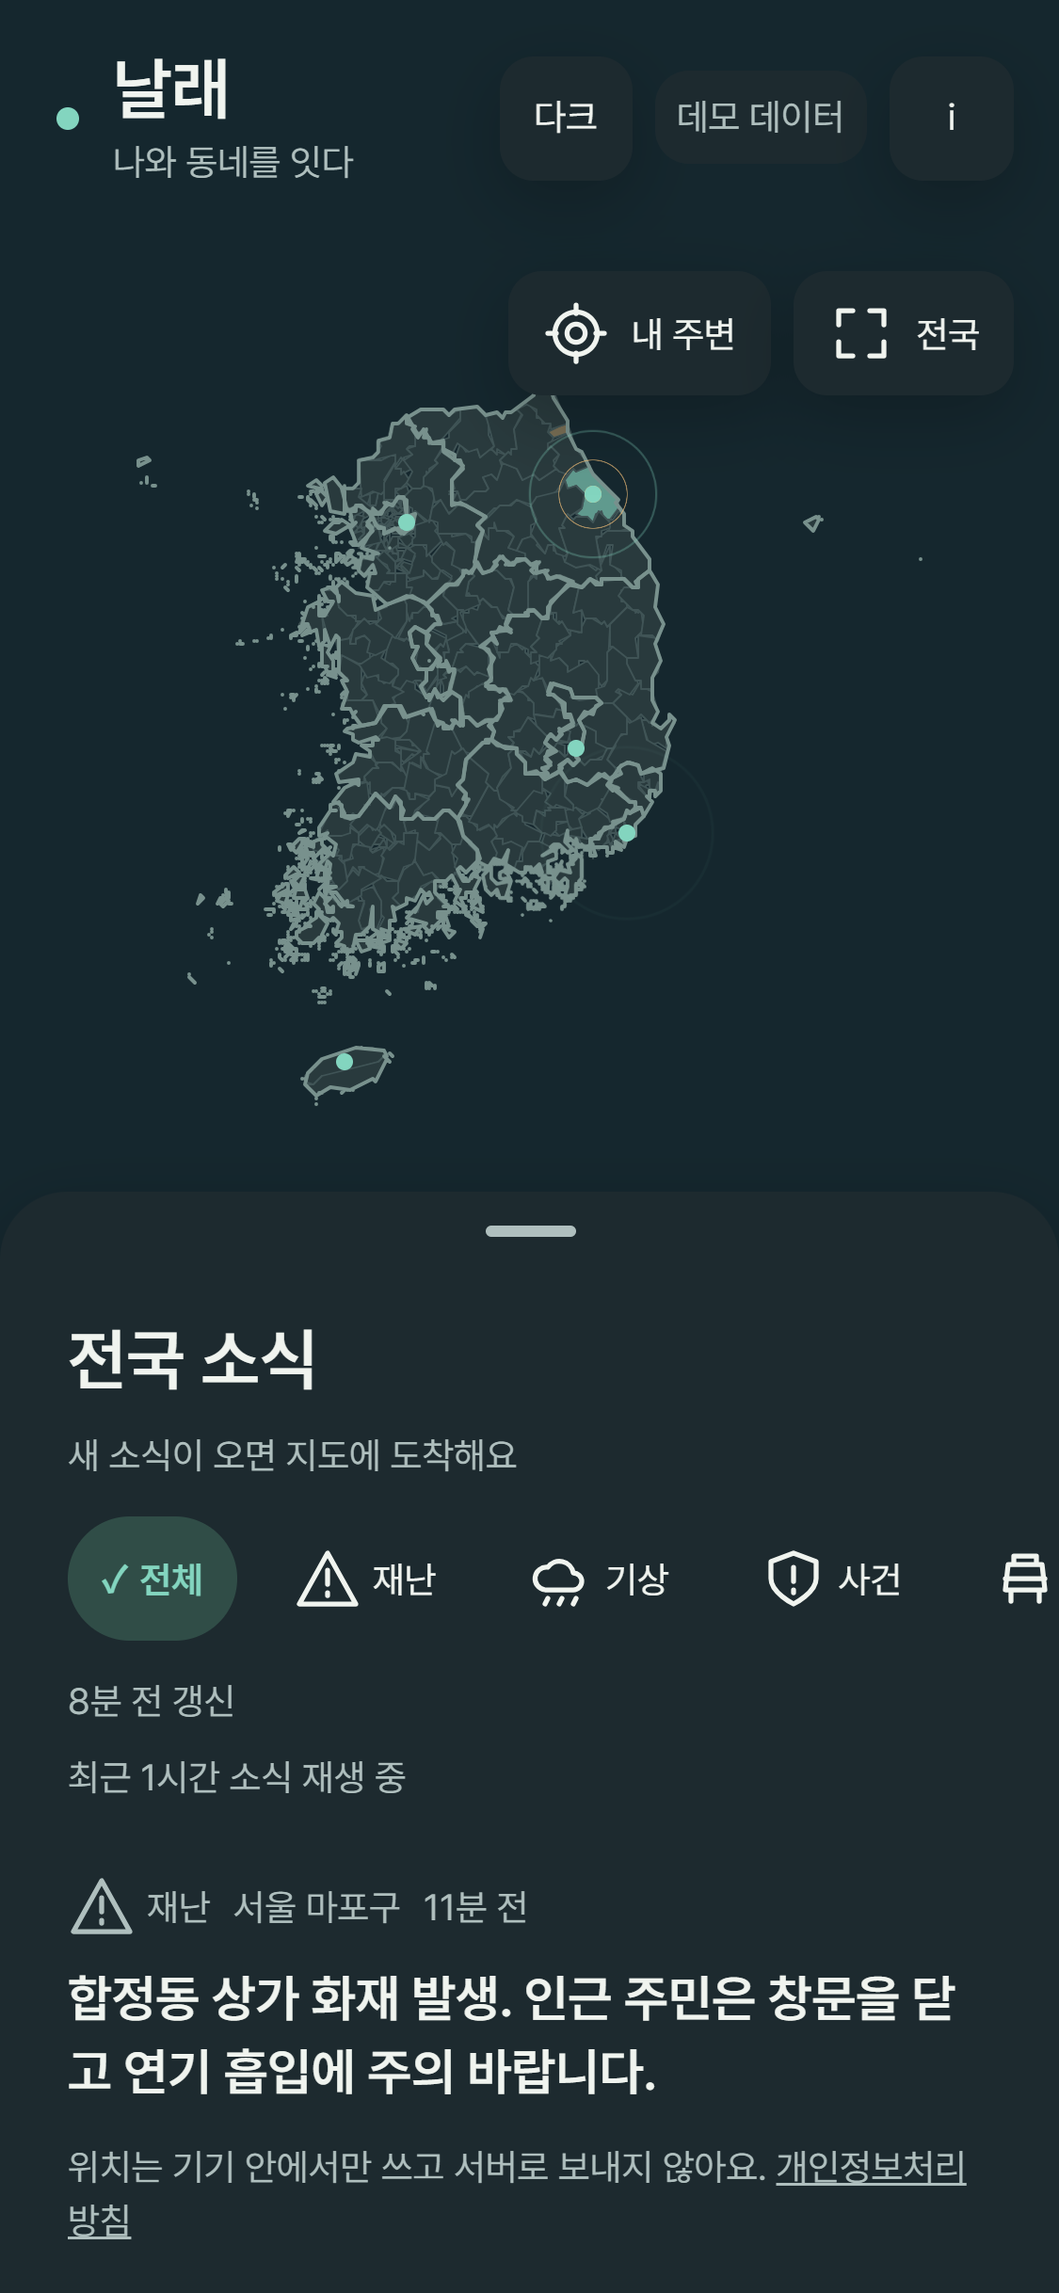
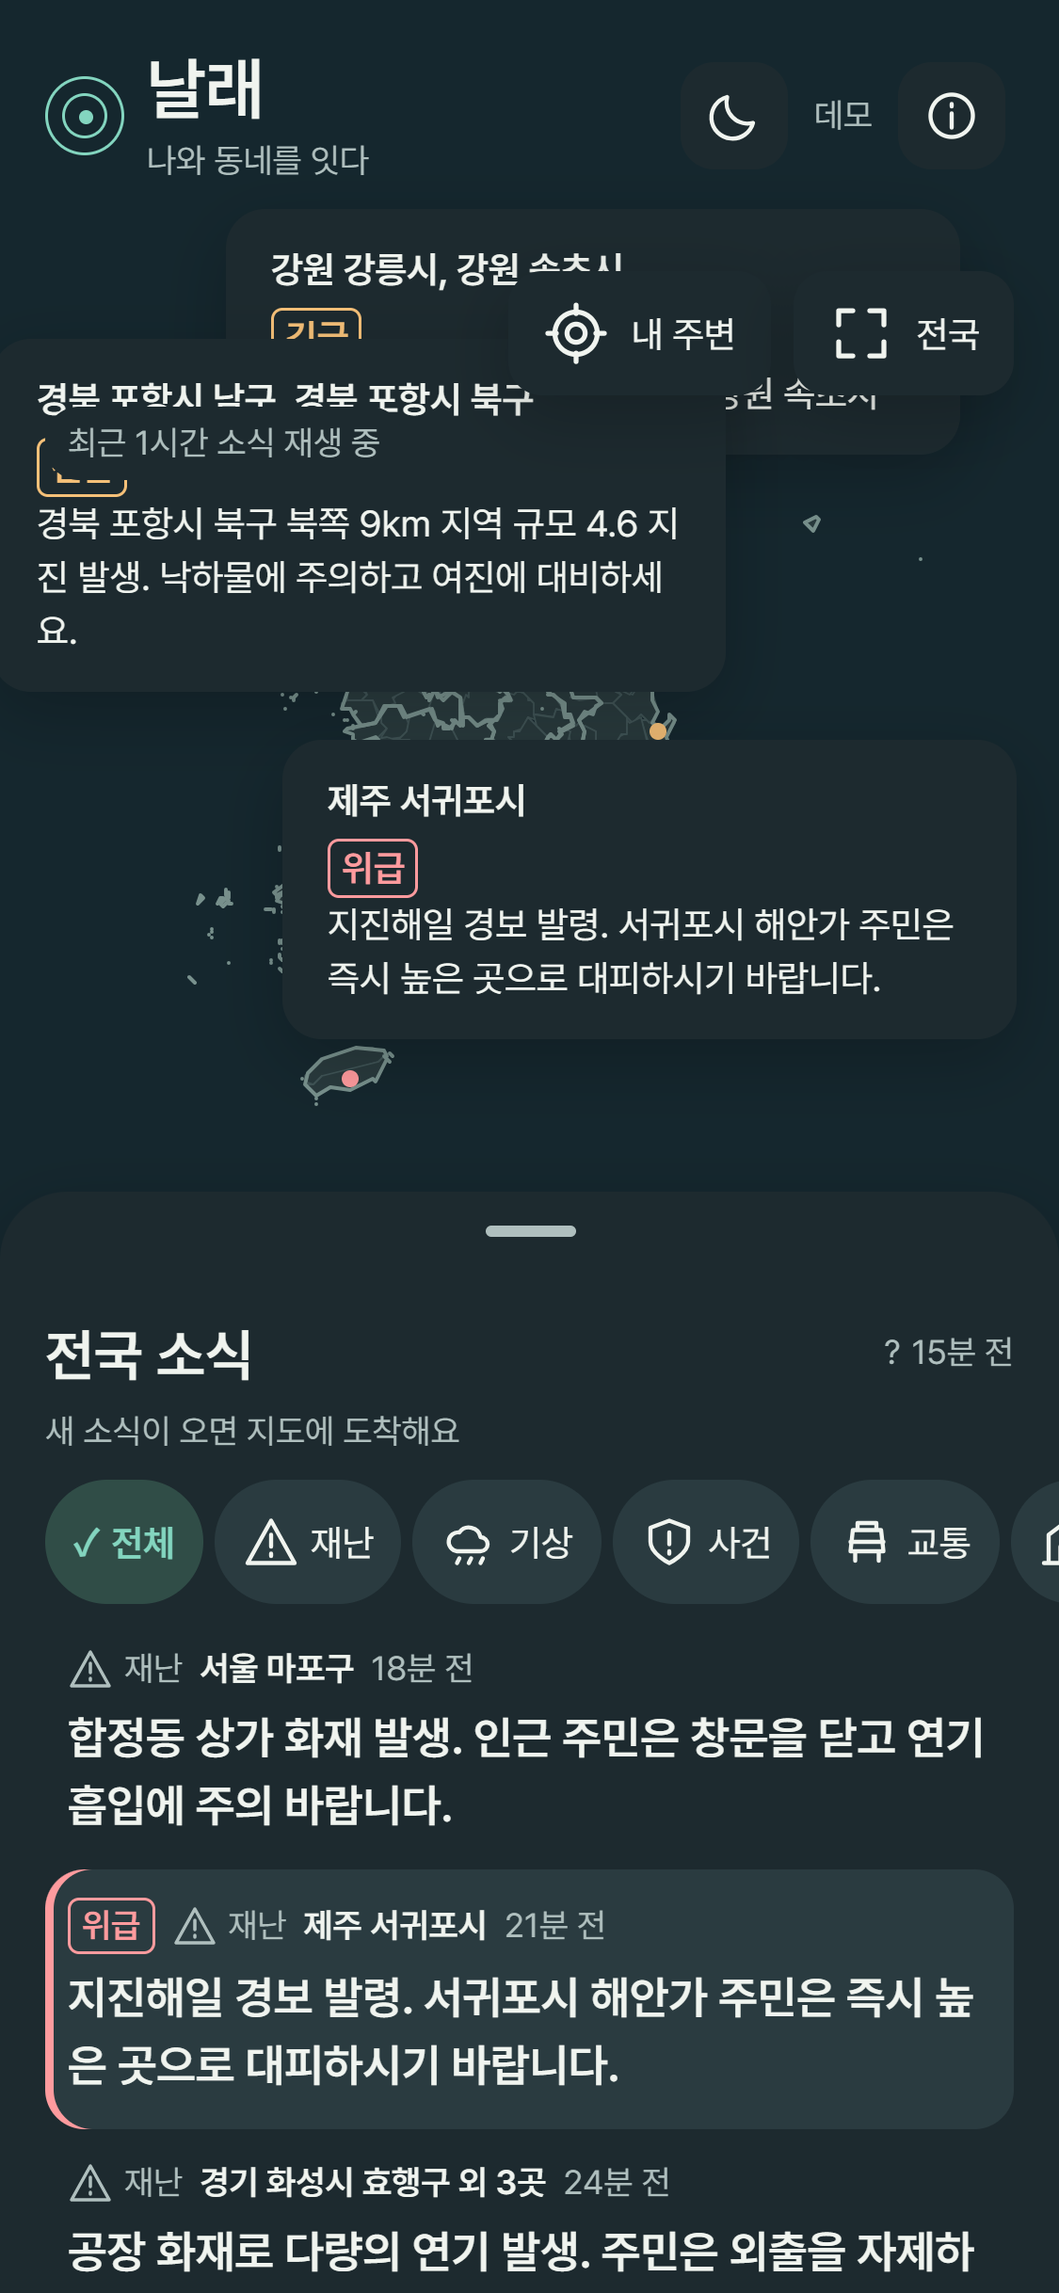
디자인 1단계 다듬기 2: 말풍선 1개·한 줄·안전 영역, 상태 점, 부제 문구, 재생 토스트 레이어

diff --git a/web/app.js b/web/app.js
@@ -197,7 +197,51 @@
     m.flashTimer = setTimeout(() => { m.flashing = false; restyle(m); }, 2400);
   }
 
-  let bubbleMarker = null;
+  const bubbleEl = document.createElement('div');
+  bubbleEl.className = 'map-bubble';
+  bubbleEl.hidden = true;
+  document.body.append(bubbleEl);
+  let bubbleAt = null, bubbleUntil = 0, bubbleTimer;
+  const replayEl = document.getElementById('replay-status');
+  function placeMapOverlays() {
+    const sheet = panel.getBoundingClientRect();
+    const controls = document.querySelector('.controls').getBoundingClientRect();
+    const header = document.querySelector('.topbar').getBoundingClientRect();
+    const desktop = matchMedia('(min-width:760px)').matches;
+    const left = desktop ? sheet.right + 16 : 12;
+    const right = desktop ? controls.left - 12 : innerWidth - 12;
+    const top = Math.max(header.bottom, controls.bottom) + 8;
+    const bottom = desktop ? innerHeight - 28 : sheet.top - 12;
+    const width = Math.max(0, right - left);
+    replayEl.style.left = left + 'px';
+    replayEl.style.top = top + 'px';
+    replayEl.style.maxWidth = width + 'px';
+    const minY = top + (replayEl.hidden ? 0 : replayEl.getBoundingClientRect().height + 8);
+    bubbleEl.style.maxWidth = Math.min(innerWidth * .72, width) + 'px';
+    if (!bubbleAt || bubbleEl.hidden) return;
+    const box = bubbleEl.getBoundingClientRect();
+    bubbleEl.style.visibility = width >= 80 && bottom - minY >= box.height ? 'visible' : 'hidden';
+    const point = map.latLngToContainerPoint(bubbleAt);
+    const x = point.x + box.width > right ? point.x - box.width : point.x;
+    const y = point.y - box.height - 14 < minY ? point.y + 14 : point.y - box.height - 14;
+    bubbleEl.style.left = Math.max(left, Math.min(x, right - box.width)) + 'px';
+    bubbleEl.style.top = Math.max(minY, Math.min(y, bottom - box.height)) + 'px';
+  }
+  function showMapBubble(item, at) {
+    if (Date.now() < bubbleUntil) return;
+    clearTimeout(bubbleTimer);
+    bubbleAt = at;
+    bubbleUntil = item.urgency === 'critical' ? Date.now() + 4000 : 0;
+    bubbleEl.innerHTML = urgencyBadge(item) + '<span class="bubble-title">' + escapeHtml(placeLabel(item)) + ' · ' + escapeHtml(item.title) + '</span>';
+    bubbleEl.hidden = false;
+    placeMapOverlays();
+    bubbleTimer = setTimeout(() => { bubbleEl.hidden = true; bubbleAt = null; bubbleUntil = 0; }, item.urgency === 'critical' ? 4000 : 2800);
+  }
+  const overlayObserver = new ResizeObserver(placeMapOverlays);
+  [panel, document.querySelector('.topbar'), document.querySelector('.controls')].forEach(el => overlayObserver.observe(el));
+  new MutationObserver(placeMapOverlays).observe(replayEl, { attributes:true, attributeFilter:['hidden'] });
+  map.on('move zoom resize', placeMapOverlays);
+  window.addEventListener('resize', placeMapOverlays);
   // 정책브리핑처럼 지명이 '언급'만 된 자료는 목록에만 두고 지도에 찍지 않는다
   const onMap = (item) => item.onMap !== false && item.src !== 'brief';
 
@@ -211,24 +255,15 @@
     // 펄스는 한 곳에: 시·군·구 하나면 그 중심, 여러 곳이면 첫 지역, 시·도 전체면 시·도 중심
     const at = item.sgg?.length ? muniByCode.get(item.sgg[0])?.center : sidos.get(item.sido?.[0])?.center;
     if (!at) return;
-    const where = placeLabel(item);
-    // 화면 가장자리 근처면 말풍선을 안쪽으로 붙인다
-    const x = map.latLngToContainerPoint(at).x, w = map.getSize().x;
-    const edge = x > w - 150 ? ' to-left' : x < 150 ? ' to-right' : '';
     const html = `<div class="pulse" style="${signalStyle(item)}">
       ${reducedMotion.matches ? '' : '<span class="ring"></span>'}<span class="dot"></span>
-      ${withBubble ? `<div class="bubble${edge}${['critical','urgent'].includes(item.urgency) ? ' priority' : ''}"><b>${escapeHtml(where)}</b>${urgencyBadge(item)}<span class="bubble-title">${escapeHtml(item.title)}</span></div>` : ''}
     </div>`;
     const marker = L.marker(at, {
       pane: 'pulses', interactive: false, keyboard: false,
       icon: L.divIcon({ className: '', html, iconSize: [0, 0] }),
     }).addTo(map);
-    if (withBubble) {
-      if (bubbleMarker && !bubbleMarker.priority) map.removeLayer(bubbleMarker);
-      marker.priority = ['critical','urgent'].includes(item.urgency);
-      bubbleMarker = marker;
-    }
-    setTimeout(() => { map.removeLayer(marker); if (bubbleMarker === marker) bubbleMarker = null; }, 5600);
+    if (withBubble) showMapBubble(item, at);
+    setTimeout(() => map.removeLayer(marker), 5600);
   }
 
   function itemMunis(item) {
@@ -320,6 +355,7 @@
     const failed = Object.entries(sources).filter(([,v]) => v.ok === false);
     const stale = updatedAt && Date.now() - updatedAt > 60 * 60 * 1000;
     status.classList.toggle('failed', loadFailed || !!failed.length);
+    status.classList.toggle('stale', !!stale);
     status.textContent = (loadFailed ? '소식을 새로 불러오지 못했어요 · ' : failed.length ? '일부 출처 수집 실패 · ' : stale ? '갱신이 지연되고 있어요 · ' : '') + (updatedAt ? ago(updatedAt) : '갱신 시각 미제공');
   }
   function sourceStatus() {
@@ -336,7 +372,7 @@
   function renderFeed(newIds, preserve = false) {
     if (!preserve) pending.clear();
     titleEl.textContent = selection ? label(selection.center) + ' 주변' : '전국 소식';
-    subEl.textContent = selection ? (selection.fromLocation ? '내 위치 기준 · ' : '') + selection.center.name + '와 맞닿은 ' + (selection.codes.size - 1) + '곳 포함' : '새 소식이 오면 지도에 도착해요';
+    subEl.textContent = selection ? (selection.fromLocation ? '내 위치 기준 · ' : '') + selection.center.name + '와 맞닿은 ' + (selection.codes.size - 1) + '곳 포함' : '최근 72시간 · 새 소식은 지도에서 먼저 반짝여요';
     const oldScroll = feedEl.scrollTop;
     const focused = document.activeElement;
     const focusId = focused?.closest('li[data-id]')?.dataset.id;

diff --git a/web/style.css b/web/style.css
@@ -122,12 +122,6 @@ path.region.flash { transition:none; }
 .pulse .ring { position:absolute; left:-32px; top:-32px; width:64px; height:64px; border:1px solid var(--signal); border-radius:50%; opacity:0; animation:ring .8s ease-out 2; animation-delay:.1s; }
 .pulse .dot { position:absolute; left:-3px; top:-3px; width:6px; height:6px; background:var(--signal); border-radius:50%; }
 @keyframes ring { from { transform:scale(.2); opacity:.8; } to { transform:scale(1); opacity:0; } }
-.bubble { --bx:-50%; position:absolute; left:0; bottom:14px; transform:translateX(var(--bx)); width:260px; max-width:70vw; padding:12px 16px; border-radius:14px; font-size:13px; line-height:19px; background:var(--surface); color:var(--text); box-shadow:var(--shadow); opacity:0; animation:bubble 3.8s 1.7s forwards; }
-.bubble b { display:block; margin-bottom:4px; }
-.bubble.to-left { --bx:calc(-100% + 24px); }
-.bubble.to-right { --bx:-24px; }
-.bubble-title { display:-webkit-box; -webkit-line-clamp:3; -webkit-box-orient:vertical; overflow:hidden; }
-@keyframes bubble { 0%,100% { opacity:0; } 5%,90% { opacity:1; } }
 .me { --signal:var(--brand); }
 .me .ring { display:none; }
 .me .dot { width:10px; height:10px; left:-5px; top:-5px; border:2px solid var(--surface); }
@@ -135,7 +129,7 @@ path.region.flash { transition:none; }
 .toast.show { opacity:1; }
 @media(min-width:760px) { .panel { top:96px; bottom:16px; left:16px; width:340px; border-radius:24px; } }
 @media(max-width:759px) { .panel { left:0; right:0; bottom:0; height:48vh; border-radius:24px 24px 0 0; padding-bottom:env(safe-area-inset-bottom); } .panel.collapsed { height:160px; } .panel-handle { display:block; position:relative; width:100%; height:44px; flex-shrink:0; border:0; background:none; } .panel-handle::after { content:''; position:absolute; width:32px; height:4px; top:12px; left:calc(50% - 16px); background:var(--text-muted); border-radius:4px; } .panel-head { padding-top:0; } .controls { top:96px; flex-direction:row; } .toast { top:148px; } }
-@media(prefers-reduced-motion:reduce) { *,*::before,*::after { transition:none!important; } .pulse .ring { display:none; } .bubble { animation:none; opacity:1; } }
+@media(prefers-reduced-motion:reduce) { *,*::before,*::after { transition:none!important; } .pulse .ring { display:none; } }
 
 .feed li.critical { box-shadow:inset 3px 0 var(--signal-critical); background:var(--surface-muted); }
 
@@ -154,7 +148,9 @@ path.region.flash { transition:none; }
 .panel-head h2 { font-size:20px; line-height:28px; }
 .panel-head p { margin:4px 0 0; font-size:12px; line-height:18px; }
 .collection-status { position:absolute; right:16px; top:20px; max-width:96px; padding:0; font-size:12px; line-height:18px; text-align:right; }
-.collection-status::before { content:'?'; margin-right:4px; }
+.collection-status::before { content:''; display:inline-block; width:6px; height:6px; border-radius:50%; margin-right:4px; vertical-align:middle; background:var(--brand); }
+.collection-status.stale::before { background:var(--signal-urgent); }
+.collection-status.failed::before { background:var(--signal-critical); }
 .chips { padding:0 16px 4px; gap:4px; }
 .chips button { background:var(--surface-muted); padding:6px 10px; }
 .chips .category-icon { width:20px; height:20px; }
@@ -166,8 +162,8 @@ path.region.flash { transition:none; }
 .meta time { font-weight:400; }
 .meta .category-icon { width:16px; height:16px; }
 .meta .urgency { font-size:12px; line-height:18px; }
-.bubble.priority { animation-delay:0s; animation-duration:5.5s; z-index:2; }
-@media(prefers-reduced-motion:reduce) { .bubble.priority { animation:none; opacity:1; } }
-.replay-toast { position:fixed; z-index:900; top:144px; left:16px; margin:0; padding:4px 8px; border-radius:12px; background:var(--surface); color:var(--text-muted); font-size:12px; line-height:18px; pointer-events:none; }
-@media(min-width:760px) { .replay-toast { left:372px; top:96px; } }
+.map-bubble { position:fixed; z-index:850; box-sizing:border-box; display:flex; align-items:center; gap:6px; width:max-content; padding:8px 12px; border-radius:12px; background:var(--surface); color:var(--text); box-shadow:var(--shadow); font-size:13px; line-height:20px; pointer-events:none; white-space:nowrap; }
+.map-bubble .urgency { flex:none; }
+.map-bubble .bubble-title { display:block; min-width:0; overflow:hidden; text-overflow:ellipsis; white-space:nowrap; }
+.replay-toast { position:fixed; z-index:900; box-sizing:border-box; margin:0; padding:4px 8px; border-radius:12px; background:var(--surface); color:var(--text-muted); font-size:12px; line-height:18px; pointer-events:none; }
 @media(max-width:759px) { .panel-head { padding-top:0; } .collection-status { top:48px; } .panel-head p { max-width:240px; } }

diff --git a/web/sw.js b/web/sw.js
@@ -1,5 +1,5 @@
 // 앱 껍데기는 캐시해서 바로 열리게, 소식(news.json)은 항상 네트워크 우선.
-const VERSION = 'nallae-v4';
+const VERSION = 'nallae-v5';
 const SHELL = [
   './', 'index.html', 'style.css', 'fonts/pretendard/pretendard-subset.css', 'app.js', 'manifest.webmanifest',
   'vendor/leaflet.min.css', 'vendor/leaflet.min.js', 'vendor/topojson-client.min.js',

diff --git a/docs/design/STAGE_1_IMPLEMENTATION.md b/docs/design/STAGE_1_IMPLEMENTATION.md
@@ -19,7 +19,7 @@ WCAG 상대휘도 공식으로 본문·보조 글자·brand·위급·긴급·미
 | B | 다크 | 5.75:1 |
 
 토큰 hex 보정 없음. 꿀색은 장식 표식에만 사용한다. 행정 경계는 문자나 조작부가 아닌 지도 구획선이다.
-앱 JS+CSS는 약 40KB(데이터·vendor·폰트 제외)로 100KB 이하. 서비스워커는 `nallae-v4`이며 폰트 CSS를 셸에 포함했다.
+앱 JS+CSS는 41,912바이트(데이터·vendor·폰트 제외)로 100KB 이하. 서비스워커는 `nallae-v5`이며 폰트 CSS를 셸에 포함했다.
 
 ## 검증과 Claude 검토
 
@@ -37,7 +37,7 @@ WCAG 상대휘도 공식으로 본문·보조 글자·brand·위급·긴급·미
 3. 카드 제목을 열림 여부와 관계없이 보존한다. 중복 판별로 제목을 ‘상세 소식’으로 바꾸던 분기를 제거했다. 상세는 기존 본문과 출처를 표시한다. 목록 밖 고정 개인정보 문구를 제거해 본문 공간을 확보했다. 개인정보처리방침은 상단 앱 정보 화면에서 접근한다.
 4. 갱신 상태는 헤더 오른쪽 점+상대 시각으로 모았다. 실패·지연 안내는 보존한다. 재생 상태는 지도 위 작은 토스트로 옮겼다. 필터 아래와 카드 간격을 줄이고 제목을 16px/24px로 조정했다. 375 중간 시트에서 2.5~3건 목표의 실제 달성 여부는 Claude 재촬영으로 확인한다.
 5. **원인:** urgency→의미 토큰 매핑 자체는 정상이다. 현재 데모에서 제주 위급 소식은 지도 대상 시간순 13번째(인덱스 12)라 `500+12×550=7,100ms` 후 재생된다. 촬영 도구의 전국 대기는 4,200ms여서 위급 점이 아직 나오지 않은 화면이었다. 추가로 기존 말풍선은 1.7초 후 표시되지만 다음 말풍선이 이전 마커 전체를 삭제해, 배지가 표시되기 전에 사라질 수 있었다. 일부 항목에만 말풍선을 붙이던 샘플링도 긴급 배지를 보장하지 않았다.
-   - 최근 1시간/최대 20건 범위는 유지하고, 그 안에서 위급→긴급→나머지 순으로 재생한다(동일 구분 안에서는 시간순). 위급·긴급 말풍선은 항상 생성하고 지연 없이 표시하며 자기 수명 동안 유지한다. 점·파문·면 강조는 모두 동일한 urgency 의미 토큰을 사용한다. 위급은 빨강, 긴급은 갈색/호박색이고 말풍선에 문자 배지를 병기한다. 축소 모션에서는 파문·말풍선 애니메이션을 생략한다.
+   - 최근 1시간/최대 20건 범위와 위급→긴급→나머지 재생 순서는 유지한다(동일 구분 안에서는 시간순). 점·파문·면 강조는 동일한 urgency 의미 토큰을 사용한다. 말풍선 수명·교체 규칙은 아래 5차 명세로 대체한다.
 6. 미선택 칩에 surface-muted 면을 추가했다. 칩 아이콘은 20px, 터치는 44px 이상이다.
 7. 메타 순서는 배지→분류→지역→시간이다. 지역은 본문색/600, 시간은 보조색/400, 분류는 16px 아이콘과 12px 라벨로 구분했다.
 
@@ -48,4 +48,29 @@ A·B는 같은 DOM·간격·조판을 사용하며 차이는 색 토큰뿐이다
 - `node --test "scripts/test/*.test.mjs"`: 5개 통과. app.js/sw.js 구문 검사 통과.
 - Node VM으로 위급·긴급·일반·미제공의 신호 토큰, 위급 배지, 카드 제목 보존 분기, 재생 상태 ID 유일성을 확인했다. 기존 의미 색과 표면 토큰을 그대로 사용해 위 대비표의 색 조합을 유지한다.
 - 실제 브라우저 검증은 미수행이다. Claude가 8장 재촬영하면서 목록 밀도, 긴 실패 상태와 제목 충돌, 확대 글자, 터치·키보드 조작을 확인해야 한다.
-- 위급·긴급 말풍선을 유지하므로 가까운 지역에 동시에 여러 건이 있으면 겹칠 수 있다. 지도 가장자리 잘림도 후속 지도 단계 검토 대상이다. 오래된 데모는 최근 1시간 재생 범위에서 제외되므로 촬영 시 데모 시각을 확인해야 한다.
+- 오래된 데모는 최근 1시간 재생 범위에서 제외되므로 촬영 시 데모 시각을 확인해야 한다.
+
+## Claude 5차 검토 반영 (1~4)
+
+1. 마커마다 붙이던 말풍선을 고정 오버레이 하나로 분리했다. 점·파문은 지역 좌표에 남기고 말풍선만 안전 영역에 배치한다.
+2. 상태의 물음표는 CSS `content:'?'`가 원인이었다. 글리프 대신 6px 원을 그린다. 정상=brand, 1시간 초과 지연=signal-urgent, 요청/출처 실패=signal-critical 순으로 실패를 우선한다. 상대 시각과 기존 실패 안내는 유지한다.
+3. 전국 부제는 ‘최근 72시간 · 새 소식은 지도에서 먼저 반짝여요’로 변경했다. 지역 선택 시 기존 포함 지역 안내를 유지한다.
+4. 재생 토스트는 안전 영역 맨 위에 고정한다. 토스트 z-index 900, 말풍선 850이며 말풍선 배치에서는 토스트 높이와 8px 간격을 제외한다.
+
+### 말풍선 명세
+
+- 동시에 DOM 한 개만 표시한다. `[위급/긴급 배지] 지역 · 제목` 한 줄이며, 지역·제목을 합친 텍스트에 말줄임을 적용한다. 본문은 목록/상세에서 읽는다. 배지는 기존 urgency 규칙을 따른다.
+- 최대 폭은 화면 너비의 72%와 안전 영역 너비 중 작은 값이다. 배지 폭은 보존한다.
+- 안전 영역: 상단 브랜드·지도 조작부의 실제 하단 +8px부터 모바일 시트 상단 −12px까지. 데스크톱은 시트 오른쪽 +16px, 지도 조작부 왼쪽 −12px 사이이며 하단 28px는 출처 표기를 위해 비운다. 좌우 화면 여백은 최소 12px다.
+- 좌표 오른쪽/위쪽에 놓았을 때 넘치면 왼쪽/아래쪽으로 뒤집고, 최종 위치를 안전 영역에 제한한다. 지도 이동·확대, 창 크기, 상단/조작부/시트 크기, 재생 토스트 표시 변경 때 다시 계산한다.
+- 위급은 4초 동안 교체하지 않는다. 그동안 들어온 말풍선 요청은 쌓지 않고 생략한다(점·파문·목록은 유지). 나머지는 다음 요청으로 즉시 덮어쓰며 마지막 표시 후 2.8초에 숨긴다.
+- 공간이 부족하면 말풍선을 숨겨 조작부와 시트를 보호한다. 이 경우 위급 4초 가시성도 보장할 수 없으므로 목록 배지가 정보를 보완한다.
+- 말풍선 자체는 애니메이션이 없다. 기존 reduced-motion의 지도 비행·파문 생략, 44px 터치 크기를 유지한다. A·B의 구성·배치·타이밍은 같고 색 토큰만 다르다.
+
+### 검증 및 남은 위험
+
+- `node --test "scripts/test/*.test.mjs"` 5개 통과, app.js/sw.js 구문 검사와 `git diff --check` 통과. Node VM으로 위급 4초 보호·다음 요청 덮어쓰기·2.8초 만료를 확인했다.
+- 외부 요청·프레임워크·의존성 추가 및 scripts/ 수정 없음. 기존 텍스트/의미색 토큰 조합을 유지해 위 대비표(최저 4.88:1)를 적용한다.
+- 실제 브라우저 재촬영은 Claude 담당이다. 특히 375px 긴 제목, 위급 4초 유지, 시트 접기/펼치기, 글자 확대, 데스크톱 안전 영역을 확인해야 한다.
+- 안전 영역으로 옮겨진 말풍선은 점과 떨어질 수 있다. 위치 해석은 말풍선 지역명과 원래 좌표의 점을 함께 사용한다. 보호 중 생략된 소식은 목록에서 읽는다.
+- 커밋과 스크린샷 촬영은 수행하지 않았다. 작업 시작 전에 변경돼 있던 PNG 8개는 수정하지 않았다.
